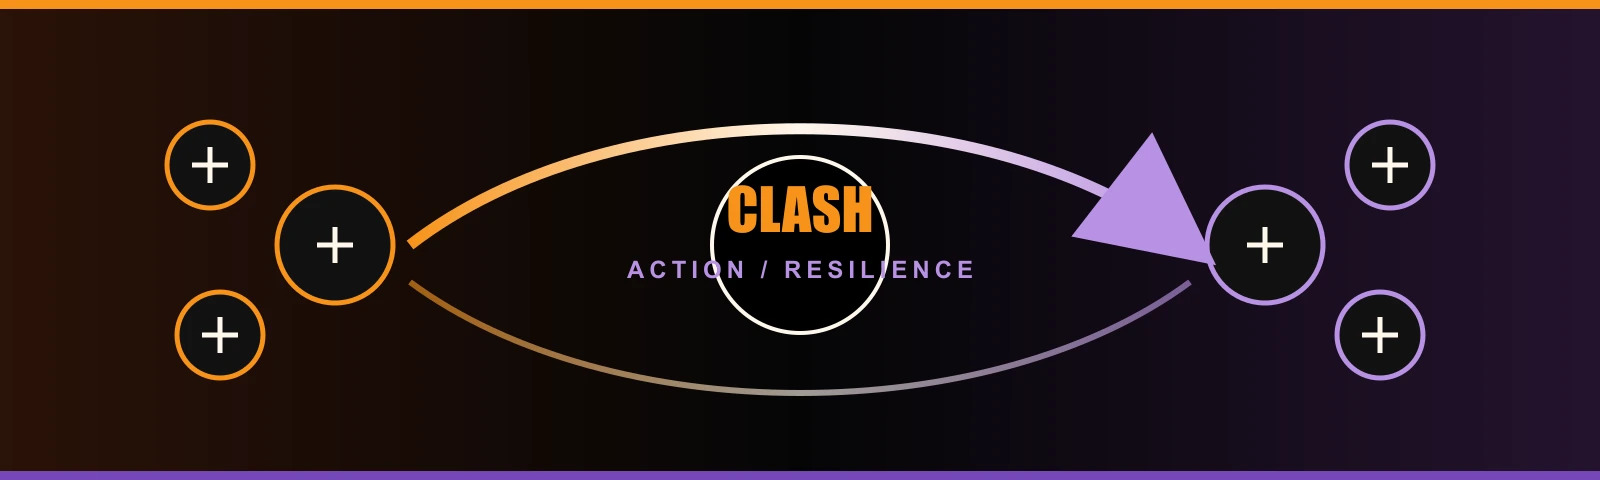
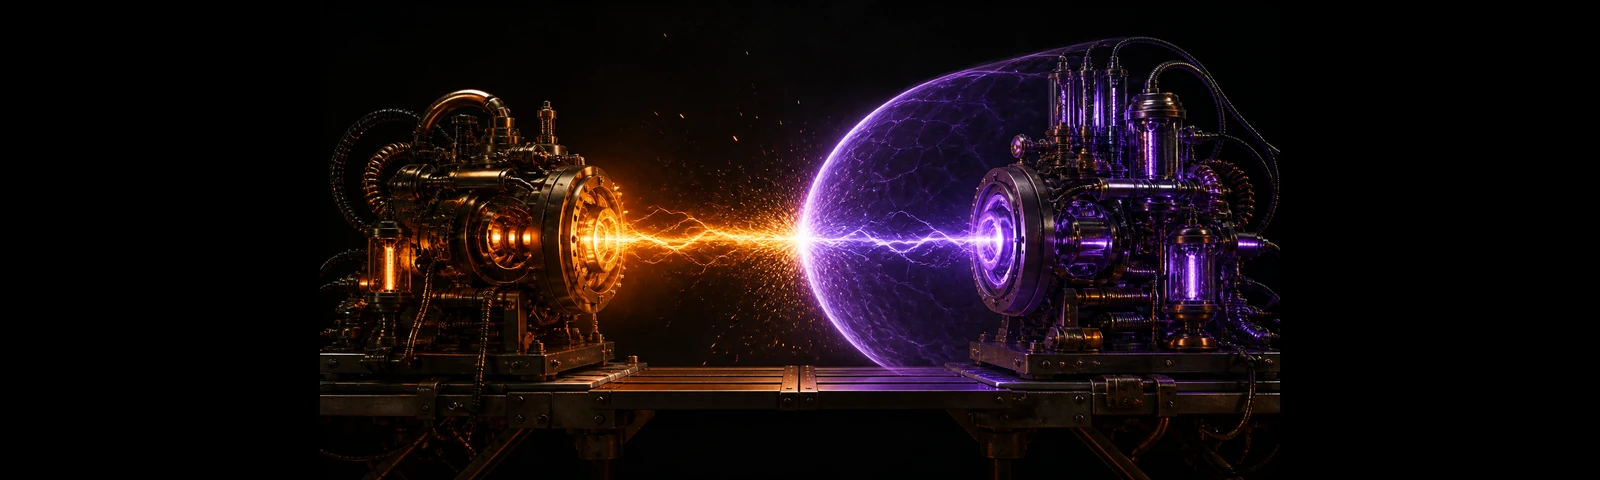
feat: add locked website artwork
Executes the ten-asset catalog from WEBSITE-ART-PROMPTS.md, generated by Codex
from the locked prompts and handed over uncommitted in
docs/handover/2026-08-16/CLAUDE-HANDOVER.md (included here as the record of
how the assets were produced and verified).

Seven page heroes at 2880x1280 replace the 576px portrait world-plates that
were being stretched across full desktop width on index, rules, quickstart,
lore and play; shop and leaderboard gain their first hero sections, with the
existing intro text moved in rather than duplicated. The two flat vector
rulebook banners become illustrated scenes on the same paths. The link
preview stops being the bare logo: og-card.png is a 1200x630 scene with the
logo composited into its calm band, and twitter:card moves to
summary_large_image so the picture actually shows at full size.

The rulebook generator learns the same wiring (hero-rules background, webp
banner path) AND the caption it kept trying to revert: build-rulebook.cjs
still carried the old separate-text-plate caption for the contact sheet, so
every `npm run build` undid the fix from 87703c8. The generator and the
rulebook markdown's alt text now say the same thing the page says, verified
by rebuilding until the tree stayed stable.

Verified against the handover's claims rather than alongside them: all ten
files exist at exact target sizes, every image reviewed by eye (identity
locks hold -- MadMunky's cigarette is in the reference), all seven pages
[…]

diff --git a/site/rules.html b/site/rules.html
@@ -120,7 +120,7 @@
       overflow: hidden;
       background:
         linear-gradient(90deg, rgba(0,0,0,.98) 0, rgba(0,0,0,.78) 46%, rgba(0,0,0,.12) 78%),
-        url("../art/rulebook/banner-01-build-the-network.webp") center/cover;
+        url("../art/site/hero-rules.webp") center/cover;
       border-bottom: 1px solid var(--line);
     }
     .hero-inner {
@@ -405,7 +405,7 @@
     <nav class="mobile-toc" aria-label="Rulebook contents"><a href="#edition-one-rules" data-terms="edition-one-rules edition one rules build the network protect your uptime make every action count two-player trading card game about open systems resilient communities and positive cypherpunk culture players deploy avatars hardware protocols route fast zaps commit five kinds resources keep their side alive world these are played runners tools night grid sang lives lore page first profile deliberately preserves strategic shape first-generation dueling games starting seven cards opening wallet forty-card minimum stacks resource play each turn classic burn unrestricted counts timing expressed thr">Edition One Rules</a>
 <a href="#1-fast-start" data-terms="1-fast-start fast start you can learn the core loop one page each player brings stack least cards and begins uptime shuffle then draw seven into your wallet randomly choose first draws turn unlock handle maintenance during build play resource from commit resources generate power bitcoin keys signal timelock spend those avatars hardware protocols operations attack with clash unblocked damage opposing zaps activated abilities whenever have priority win when opponent reaches cannot required card table glance private information shared completed face-down pile network archive used destroyed hand q">1. Fast start</a>
 <a href="#2-the-game-contract" data-terms="2-the-game-contract the game contract players classic profile written for exactly two player may concede any time concession takes effect immediately and cannot answered solo practice digital table offers npc opponent seat plays these same rules through referee nothing this book changes play mode results carry standing stake signed transcript objective you win when conditions true your has less uptime must draw card but their stack empty says that concedes both would lose during state check each begins with damage reduces healing other effects raise above public information cards over only wha">2. The game contract</a>
-<a href="#3-what-is-on-a-card" data-terms="3-what-is-on-a-card what card every playable has the following rules-facing fields field meaning name identity two cards with same are for effects that check names cost resources required play type line one more types followed optional subtypes affinity power bitcoin keys signal timelock neutral rules instructions and abilities affect game action resilience combat values shown only avatars set code edition collector gameplay effect simple guide plain-language explanation practical job protocol note factual learning first six pipeline proofs text educational notes rendered separately from art n">3. What is on a card</a>
+<a href="#3-what-is-on-a-card" data-terms="3-what-is-on-a-card what card every playable has the following rules-facing fields field meaning name identity two cards with same are for effects that check names cost resources required play type line one more types followed optional subtypes affinity power bitcoin keys signal timelock neutral rules instructions and abilities affect game action resilience combat values shown only avatars set code edition collector gameplay effect simple guide plain-language explanation practical job protocol note factual learning six faces node runner frame full illustration printed below non-resource normal">3. What is on a card</a>
 <a href="#4-the-five-resources" data-terms="4-the-five-resources the five resources are both spendable energy and philosophical affinities none good evil each represents useful tool with characteristic strength tradeoff power mining speed direct action solves immediate problem sometimes cost bitcoin scarcity saving settlement resilient growth turns patient verification into durable coordination keys custody privacy signatures deliberate risk trade comfort for agency turn access responsibility signal identity culture protection makes people legible one another without requiring central platform timelock sequencing planning control delays">4. The five Resources</a>
 <a href="#5-card-types" data-terms="5-card-types card types resource resources enter the network and normally generate one their subtype when committed playing special action not item queue you may play from your wallet during either build phase turn while empty effect allow additional plays avatar avatars are persistent cards with resilience they can attack block use abilities has boot delay until its controller begins under control delayed cannot pay cost that requires commit require committing hardware representing devices tools infrastructure have activated triggered static also follows rules for both including protocol prot">5. Card types</a>
 <a href="#6-zones" data-terms="6-zones zones each game uses the following zone visibility what belongs there stack hidden your face-down draw pile wallet opponents cards you can play from hand network public resources avatars hardware and protocols archive discarded used invalidated destroyed cold storage unless effect says otherwise removed normal queue zaps played abilities waiting resolve stake optional legacy shared but control remains distinct players may arrange their own for readability arrangement has rules meaning toss explicitly does changes when card becomes new object with memory its previous existence except wh">6. Zones</a>
@@ -457,7 +457,7 @@
       <div id="tocLinks"><a href="#edition-one-rules" data-terms="edition-one-rules edition one rules build the network protect your uptime make every action count two-player trading card game about open systems resilient communities and positive cypherpunk culture players deploy avatars hardware protocols route fast zaps commit five kinds resources keep their side alive world these are played runners tools night grid sang lives lore page first profile deliberately preserves strategic shape first-generation dueling games starting seven cards opening wallet forty-card minimum stacks resource play each turn classic burn unrestricted counts timing expressed thr">Edition One Rules</a>
 <a href="#1-fast-start" data-terms="1-fast-start fast start you can learn the core loop one page each player brings stack least cards and begins uptime shuffle then draw seven into your wallet randomly choose first draws turn unlock handle maintenance during build play resource from commit resources generate power bitcoin keys signal timelock spend those avatars hardware protocols operations attack with clash unblocked damage opposing zaps activated abilities whenever have priority win when opponent reaches cannot required card table glance private information shared completed face-down pile network archive used destroyed hand q">1. Fast start</a>
 <a href="#2-the-game-contract" data-terms="2-the-game-contract the game contract players classic profile written for exactly two player may concede any time concession takes effect immediately and cannot answered solo practice digital table offers npc opponent seat plays these same rules through referee nothing this book changes play mode results carry standing stake signed transcript objective you win when conditions true your has less uptime must draw card but their stack empty says that concedes both would lose during state check each begins with damage reduces healing other effects raise above public information cards over only wha">2. The game contract</a>
-<a href="#3-what-is-on-a-card" data-terms="3-what-is-on-a-card what card every playable has the following rules-facing fields field meaning name identity two cards with same are for effects that check names cost resources required play type line one more types followed optional subtypes affinity power bitcoin keys signal timelock neutral rules instructions and abilities affect game action resilience combat values shown only avatars set code edition collector gameplay effect simple guide plain-language explanation practical job protocol note factual learning first six pipeline proofs text educational notes rendered separately from art n">3. What is on a card</a>
+<a href="#3-what-is-on-a-card" data-terms="3-what-is-on-a-card what card every playable has the following rules-facing fields field meaning name identity two cards with same are for effects that check names cost resources required play type line one more types followed optional subtypes affinity power bitcoin keys signal timelock neutral rules instructions and abilities affect game action resilience combat values shown only avatars set code edition collector gameplay effect simple guide plain-language explanation practical job protocol note factual learning six faces node runner frame full illustration printed below non-resource normal">3. What is on a card</a>
 <a href="#4-the-five-resources" data-terms="4-the-five-resources the five resources are both spendable energy and philosophical affinities none good evil each represents useful tool with characteristic strength tradeoff power mining speed direct action solves immediate problem sometimes cost bitcoin scarcity saving settlement resilient growth turns patient verification into durable coordination keys custody privacy signatures deliberate risk trade comfort for agency turn access responsibility signal identity culture protection makes people legible one another without requiring central platform timelock sequencing planning control delays">4. The five Resources</a>
 <a href="#5-card-types" data-terms="5-card-types card types resource resources enter the network and normally generate one their subtype when committed playing special action not item queue you may play from your wallet during either build phase turn while empty effect allow additional plays avatar avatars are persistent cards with resilience they can attack block use abilities has boot delay until its controller begins under control delayed cannot pay cost that requires commit require committing hardware representing devices tools infrastructure have activated triggered static also follows rules for both including protocol prot">5. Card types</a>
 <a href="#6-zones" data-terms="6-zones zones each game uses the following zone visibility what belongs there stack hidden your face-down draw pile wallet opponents cards you can play from hand network public resources avatars hardware and protocols archive discarded used invalidated destroyed cold storage unless effect says otherwise removed normal queue zaps played abilities waiting resolve stake optional legacy shared but control remains distinct players may arrange their own for readability arrangement has rules meaning toss explicitly does changes when card becomes new object with memory its previous existence except wh">6. Zones</a>
@@ -641,7 +641,7 @@ effects can change control. Ownership never changes during a game.</p>
 
 <p>The five Resources are both spendable energy and philosophical affinities. None is good
 or evil. Each represents a useful tool with a characteristic strength and tradeoff.</p>
-<figure class="rule-banner"><img src="../art/rulebook/banner-02-five-resources.svg" alt="The five 600B Resources" loading="lazy"></figure>
+<figure class="rule-banner"><img src="../art/rulebook/banner-02-five-resources.webp" alt="The five 600B Resources" loading="lazy"></figure>
 <h3 id="power">Power</h3>
 
 <p class="resource-icon"><img src="../art/resources/power.svg" alt="Power icon" loading="lazy"></p>

diff --git a/site/index.html b/site/index.html
@@ -13,14 +13,14 @@
 <meta property="og:description" content="A free trading card game about Bitcoin, Nostr and open systems. 295 cards, plays in your browser — no account, no download, no permission.">
 <meta property="og:type" content="website">
 <meta property="og:locale" content="en">
-<meta property="og:image" content="../art/brand/600B-logo-primary.png">
-<meta property="og:image:width" content="842">
-<meta property="og:image:height" content="842">
-<meta property="og:image:alt" content="The 600 000 000 000 mark of the 600B Timelock TCG">
-<meta name="twitter:card" content="summary">
+<meta property="og:image" content="../art/site/og-card.png">
+<meta property="og:image:width" content="1200">
+<meta property="og:image:height" content="630">
+<meta property="og:image:alt" content="600B Timelock TCG — the Genesis Lotus above a hopeful cypherpunk city">
+<meta name="twitter:card" content="summary_large_image">
 <meta name="twitter:title" content="600B Timelock TCG — Build the Network">
 <meta name="twitter:description" content="A free trading card game about Bitcoin, Nostr and open systems. 295 cards, plays in your browser — no account, no download.">
-<meta name="twitter:image" content="../art/brand/600B-logo-primary.png">
+<meta name="twitter:image" content="../art/site/og-card.png">
 
 <title>600B Timelock TCG — a free browser card game about Bitcoin and Nostr</title>
 <link rel="icon" href="../art/brand/600B-logo-primary.png">
@@ -70,7 +70,7 @@ if (globalThis.E1Napplet) globalThis.E1Napplet.theme.start();
 .hero { position: relative; overflow: hidden; display: grid; align-content: center; padding: clamp(40px, 7vw, 96px) var(--pad); }
 .hero::before {
   content: ""; position: absolute; inset: 0;
-  background: url("../art/world-plates/timelock.png") center 30% / cover no-repeat;
+  background: url("../art/site/hero-index.webp") center 30% / cover no-repeat;
   filter: brightness(.62);
   animation: bootBg 1.1s ease-out both;
 }
@@ -460,7 +460,7 @@ body { container-type: inline-size; container-name: page; }
   yours — the whole game hangs off that one number.</p>
   <div class="turnstrip">
     <figure>
-      <img src="../art/rulebook/banner-02-five-resources.svg" alt="The five Resources: Power, Bitcoin, Keys, Signal and Timelock" width="1600" height="480" loading="lazy" decoding="async">
+      <img src="../art/rulebook/banner-02-five-resources.webp" alt="The five Resources: Power, Bitcoin, Keys, Signal and Timelock" width="1600" height="480" loading="lazy" decoding="async">
       <figcaption>
         <h3>1 · Take a Resource</h3>
         <p>One free Resource per turn, from your own Stack. Commit it to pay a cost — spend it before

diff --git a/site/shop.html b/site/shop.html
@@ -28,6 +28,25 @@ if (globalThis.E1Napplet) globalThis.E1Napplet.theme.start();
 /* Author-sheet display rules outrank the UA's [hidden], so state it once. */
 [hidden] { display: none !important; }
 
+.shop-hero {
+  position: relative; overflow: hidden; min-height: clamp(300px, 50vh, 540px);
+  display: grid; align-content: center; padding: clamp(52px, 8vw, 108px) var(--pad);
+  border-bottom: 1px solid var(--line);
+}
+.shop-hero::before {
+  content: ""; position: absolute; inset: 0;
+  background: url("../art/site/hero-shop.webp") center / cover no-repeat;
+  filter: brightness(.62);
+}
+.shop-hero::after {
+  content: ""; position: absolute; inset: 0;
+  background: linear-gradient(90deg, rgba(9,8,11,.96), rgba(9,8,11,.72) 46%, rgba(9,8,11,.18) 76%),
+    linear-gradient(180deg, transparent 55%, var(--black));
+}
+.shop-hero > * { position: relative; z-index: 1; }
+.shop-hero h1 { max-width: 900px; margin: 10px 0 16px; }
+.shop-hero .lead { max-width: 720px; color: var(--cream); }
+
 /* A napplet is a panel inside somebody else's window, so the head stacks on
    the CONTAINER's width as well as the viewport's. The media query keeps the
    plain website behaving exactly as it did; the container query covers a shell
@@ -259,15 +278,17 @@ main { container-type: inline-size; }
   </div>
 </nav>
 
+<header class="shop-hero">
+  <p class="eyebrow">Edition One · Booster Box</p>
+  <h1>Open a pack. <span class="accent">Check the maths.</span></h1>
+  <p class="lead">One box of <b id="boxSize">—</b> cards was shuffled once, from a published seed, and
+  the SHA-256 over that exact order was committed before a single pack was opened. Every pull comes off
+  the top. Nobody can reshuffle to keep a rare back — and you can re-hash the whole box in your own
+  browser, on this page, in about a second.</p>
+</header>
+
 <main id="main">
   <section class="section">
-    <p class="eyebrow">Edition One · Booster Box</p>
-    <h2>Open a pack. <span class="accent">Check the maths.</span></h2>
-    <p class="lead">One box of <b id="boxSize">—</b> cards was shuffled once, from a published seed, and
-    the SHA-256 over that exact order was committed before a single pack was opened. Every pull comes off
-    the top. Nobody can reshuffle to keep a rare back — and you can re-hash the whole box in your own
-    browser, on this page, in about a second.</p>
-
     <div class="shop-head">
       <div class="framed">
         <span class="pad tl"></span><span class="pad tr"></span>

diff --git a/site/leaderboard.html b/site/leaderboard.html
@@ -22,6 +22,24 @@
    prefers-reduced-motion to switch off, and every network call lands on a
    definite sentence rather than an endless spinner. */
 
+.ladder-hero {
+  position: relative; overflow: hidden; min-height: clamp(300px, 50vh, 540px);
+  display: grid; align-content: center; padding: clamp(52px, 8vw, 108px) var(--pad);
+  border-bottom: 1px solid var(--line);
+}
+.ladder-hero::before {
+  content: ""; position: absolute; inset: 0;
+  background: url("../art/site/hero-leaderboard.webp") center / cover no-repeat;
+  filter: brightness(.6);
+}
+.ladder-hero::after {
+  content: ""; position: absolute; inset: 0;
+  background: linear-gradient(90deg, rgba(9,8,11,.96), rgba(9,8,11,.72) 46%, rgba(9,8,11,.18) 76%),
+    linear-gradient(180deg, transparent 55%, var(--black));
+}
+.ladder-hero > * { position: relative; z-index: 1; }
+.ladder-hero .lead { max-width: 720px; color: var(--cream); }
+
 main { width: min(1240px, calc(100% - 32px)); margin: auto; padding: clamp(46px, 7vw, 88px) 0 60px; }
 h1 { max-width: 950px; margin: 10px 0 16px; }
 .lead { font-size: 17px; }
@@ -226,12 +244,14 @@ tr.detail td b { color: var(--muted); font-weight: 400; }
   </div>
 </nav>
 
-<main id="main">
+<header class="ladder-hero">
   <p class="eyebrow">600 Billion · Public Track Record</p>
   <h1>A rank you can <span class="accent">check yourself.</span></h1>
   <p class="lead">There is no ladder server and no row anyone can edit. This table is folded, here in
   your browser, out of match results published to public nostr relays and signed by both players.</p>
+</header>
 
+<main id="main">
   <section class="framed trust" aria-labelledby="trustHead">
     <span class="pad tl"></span><span class="pad tr"></span><span class="pad bl"></span><span class="pad br"></span>
     <span class="banner" id="trustHead">How to trust this table</span>

diff --git a/site/quickstart.html b/site/quickstart.html
@@ -25,7 +25,7 @@ if (globalThis.E1Napplet) globalThis.E1Napplet.theme.start();
 .qs-hero { position: relative; overflow: hidden; padding: clamp(40px, 7vw, 84px) var(--pad) clamp(30px, 5vw, 56px); }
 .qs-hero::before {
   content: ""; position: absolute; inset: 0; z-index: 0;
-  background: url("../art/world-plates/power.png") center 35% / cover no-repeat;
+  background: url("../art/site/hero-quickstart.webp") center 35% / cover no-repeat;
   filter: brightness(.42) saturate(.85);
 }
 .qs-hero::after { content: ""; position: absolute; inset: 0; z-index: 0; background: linear-gradient(180deg, rgba(9,8,11,.72), rgba(9,8,11,.35) 45%, var(--black)); }

diff --git a/site/play.html b/site/play.html
@@ -33,7 +33,7 @@ a { color: var(--orange-soft); }
 .stage { position: relative; min-height: 100vh; }
 .stage::before {
   content: ""; position: fixed; inset: 0; z-index: 0;
-  background: url("../art/world-plates/power.png") center / cover no-repeat;
+  background: url("../art/site/hero-play.webp") center / cover no-repeat;
   filter: saturate(.9) brightness(.55);
 }
 .stage::after {

diff --git a/site/lore.html b/site/lore.html
@@ -32,7 +32,7 @@ if (globalThis.E1Napplet) globalThis.E1Napplet.theme.start();
 }
 .hero::before {
   content: ""; position: absolute; inset: 0;
-  background: url("../art/world-plates/signal.png") center 35% / cover no-repeat;
+  background: url("../art/site/hero-lore.webp") center 35% / cover no-repeat;
   filter: brightness(.6);
 }
 .hero::after {

diff --git a/docs/handover/2026-08-16/CLAUDE-HANDOVER.md b/docs/handover/2026-08-16/CLAUDE-HANDOVER.md
@@ -1,0 +1,147 @@
+# Claude-Handover — Website-Art — 2026-08-16
+
+## Kurzfassung
+
+Der gesperrte Website-Art-Katalog in
+`art/prompts/WEBSITE-ART-PROMPTS.md` wurde vollständig ausgeführt. Zehn finale Assets
+sind erzeugt, auf die geforderten Ausgabegrößen hochskaliert und auf den vorgesehenen
+Seiten eingebunden. Build, 305 JavaScript-Tests, 108 Python-Tests und die visuelle
+Browser-Abnahme sind grün.
+
+Es wurde bewusst **nicht committed, gepusht oder veröffentlicht**. Keine Schlüssel,
+`nsec`, Blossom-, nsite- oder sonstigen Publishing-Schritte wurden verwendet.
+
+## Git-Zustand
+
+- Repository: `G:\Github\TCG600nap`
+- Branch: `fix/art-crop-full-heads`
+- HEAD vor diesem uncommitteten Website-Art-Slice: `87703c8`
+- Der Branch enthält bereits vier Commits gegenüber `origin/main`:
+  - `f1f1c0f fix: stop cutting the heads off sixteen cards`
+  - `d35c406 feat: the card shows the whole picture`
+  - `499e0df docs: the handover's unpublished-blob count moved from 13 to the whole set`
+  - `87703c8 feat: audit the site's imagery and lock the website art prompts`
+- `art/video-intro/` ist ungetrackter, fremder Nutzer-WIP. Nicht ändern und nicht stagen.
+
+## Erzeugte Assets
+
+| ID | Datei | Ausgabe |
+| --- | --- | --- |
+| WEB-01 | `art/site/hero-index.webp` | 2880 × 1280, WebP q90 |
+| WEB-02 | `art/site/hero-rules.webp` | 2880 × 1280, WebP q90 |
+| WEB-03 | `art/site/hero-quickstart.webp` | 2880 × 1280, WebP q90 |
+| WEB-04 | `art/site/hero-lore.webp` | 2880 × 1280, WebP q90 |
+| WEB-05 | `art/site/hero-play.webp` | 2880 × 1280, WebP q90 |
+| WEB-06 | `art/site/hero-shop.webp` | 2880 × 1280, WebP q90 |
+| WEB-07 | `art/site/hero-leaderboard.webp` | 2880 × 1280, WebP q90 |
+| WEB-08 | `art/rulebook/banner-02-five-resources.webp` | 1600 × 480, WebP q90 |
+| WEB-09 | `art/rulebook/banner-05-clash.webp` | 1600 × 480, WebP q90 |
+| WEB-10 | `art/site/og-card.png` | 1200 × 630, PNG |
+
+Die Prompts wurden unverändert aus dem Katalog übernommen. Die Bildgenerierung lief mit
+der höchsten eingebauten, schlüssellosen Auflösung; anschließend wurde mit Pillow/Lanczos
+deterministisch auf das Ausgabeformat skaliert. WEB-08 und WEB-09 bekamen wegen ihrer
+weniger breiten Rohbilder ruhige dunkle Seitenflächen statt Verzerrung oder aggressivem
+Beschnitt. Das Ergebnis wurde im echten Seitenlayout abgenommen.
+
+Verwendete Identitäts-/Weltreferenzen:
+
+- WEB-01: `art/world-plates/original/timelock.png`
+- WEB-03: `art/references/join-detailed-front/flx.png`
+- WEB-03: `art/references/join-detailed-front/madmunky.png`
+- WEB-10: `art/brand/600B-logo-primary.png` wurde nach der Generierung als echtes Logo
+  mit ungefähr 180 px Größe zusammengesetzt.
+
+Die unbeschnittenen Weltplatten unter `art/world-plates/original/` waren vorhanden. Es
+wurde nicht auf die weicheren Web-Proxies zurückgefallen. Die rohen Modell-Ausgaben liegen
+außerhalb des Repositories unter
+`C:\Users\FLX\.codex\generated_images\01a004e0-fa6f-7292-b9ef-d3d570999c7d\`.
+Der nur für diese Verarbeitung verwendete Scratch-Runner
+`art/generated/process_website_art.py` ist gitignoriert und gehört nicht automatisch in
+einen Commit.
+
+## Einbindung
+
+- `site/index.html`
+  - neues Hero-Hintergrundbild;
+  - OG-/Twitter-Bild auf `og-card.png`, inklusive 1200 × 630 Metadaten;
+  - Ressourcen-Banner von SVG auf das neue WebP umgestellt.
+- `site/rules.html`
+  - neues Rules-Hero;
+  - Ressourcen-Banner auf WebP umgestellt;
+  - Clash-Banner nutzt denselben Pfad und benötigte keine Markup-Änderung.
+- `scripts/build-rulebook.cjs`
+  - dieselben Hero- und Banner-Verweise wurden im Generator hinterlegt, damit ein
+    Regelbuch-Build diese Änderung nicht zurücksetzt.
+- `site/quickstart.html`, `site/lore.html`, `site/play.html`
+  - bisherige World-Plate-Hintergründe durch die jeweiligen neuen Heroes ersetzt.
+- `site/shop.html`, `site/leaderboard.html`
+  - echte, responsive Hero-Bereiche ergänzt und den vorhandenen Einleitungstext dorthin
+    verschoben.
+
+Wichtig: `npm run build` besitzt schon vor diesem Slice eine unabhängige Drift beim
+`card-system-preview`-Alttext/Caption in `site/rules.html`. Der Build schreibt dort den
+älteren Generator-Text. Nach dem erfolgreichen Build wurde die bereits vorgefundene,
+neuere Fassung in `site/rules.html` wiederhergestellt. Wenn Claude den Build erneut laufen
+lässt, darf diese eine fremde Textänderung nicht versehentlich mitcommittet werden; entweder
+die bestehende Fassung wiederherstellen oder den Generator in einem getrennten Fix angleichen.
+
+## Verifikation
+
+| Gate | Ergebnis |
+| --- | --- |
+| `npm run build` | erfolgreich |
+| `npm run test:js` | 305/305 grün |
+| `uv run pytest -q` | 108/108 grün |
+| `git diff --check` | sauber; nur Windows-Zeilenende-Warnungen |
+| Bildformatprüfung | alle zehn Dateien haben exakt die Zielmaße |
+| Browser-Abnahme | Index, Rules, Quickstart, Lore, Play, Shop und Leaderboard ohne Console-Fehler |
+| Banner-Abnahme | Ressourcen- und Clash-Banner im jeweiligen Regelkapitel sichtbar und korrekt |
+
+Der lokale Server antwortete während der Abnahme unter
+`http://localhost:8777/index.html` mit HTTP 200.
+
+## Beabsichtigter uncommitteter Scope
+
+Vor dem Staging mit `git status --short` prüfen. Zum Website-Art-Slice gehören:
+
+```text
+art/rulebook/banner-02-five-resources.webp
+art/rulebook/banner-05-clash.webp
+art/site/hero-index.webp
+art/site/hero-leaderboard.webp
+art/site/hero-lore.webp
+art/site/hero-play.webp
+art/site/hero-quickstart.webp
+art/site/hero-rules.webp
+art/site/hero-shop.webp
+art/site/og-card.png
+scripts/build-rulebook.cjs
+site/index.html
+site/leaderboard.html
+site/lore.html
+site/play.html
+site/quickstart.html
+site/rules.html
+site/shop.html
+docs/handover/2026-08-16/CLAUDE-HANDOVER.md
+```
+
+Explizit nicht Teil dieses Scopes:
+
+```text
+art/video-intro/
+art/generated/process_website_art.py
+```
+
+## Empfohlene Fortsetzung für Claude
+
+1. `git status --short` lesen und `art/video-intro/` ausschließen.
+2. Den oben beschriebenen Build-Drift beachten, falls `npm run build` erneut läuft.
+3. Falls der Owner einen Commit freigibt, nur den expliziten Scope stagen und einen
+   Conventional-Commit wie `feat: add locked website artwork` verwenden.
+4. Wegen der vier vorhandenen Branch-Commits vor Push/PR zuerst den geplanten PR-Scope mit
+   dem Owner bestätigen.
+5. Keine Bilder zu Blossom/nsite hochladen und keine Schlüssel lesen oder verwenden, bis
+   der Owner dies ausdrücklich als separaten Publishing-Slice beauftragt.
+

diff --git a/rules/600B-Timelock-TCG-Rulebook-E1.md b/rules/600B-Timelock-TCG-Rulebook-E1.md
@@ -102,7 +102,7 @@ Every playable card has the following rules-facing fields.
 | Simple Guide | A plain-language explanation of the card's practical job; no gameplay effect. |
 | Protocol note | A factual learning note; no gameplay effect. |
 
-![Edition One card-system examples](600B-E1-iconic-six-contact-sheet.png)
+![Six Edition One card faces in the Node Runner frame](600B-E1-iconic-six-contact-sheet.png)
 
 ### 3.1 Affinity
 
